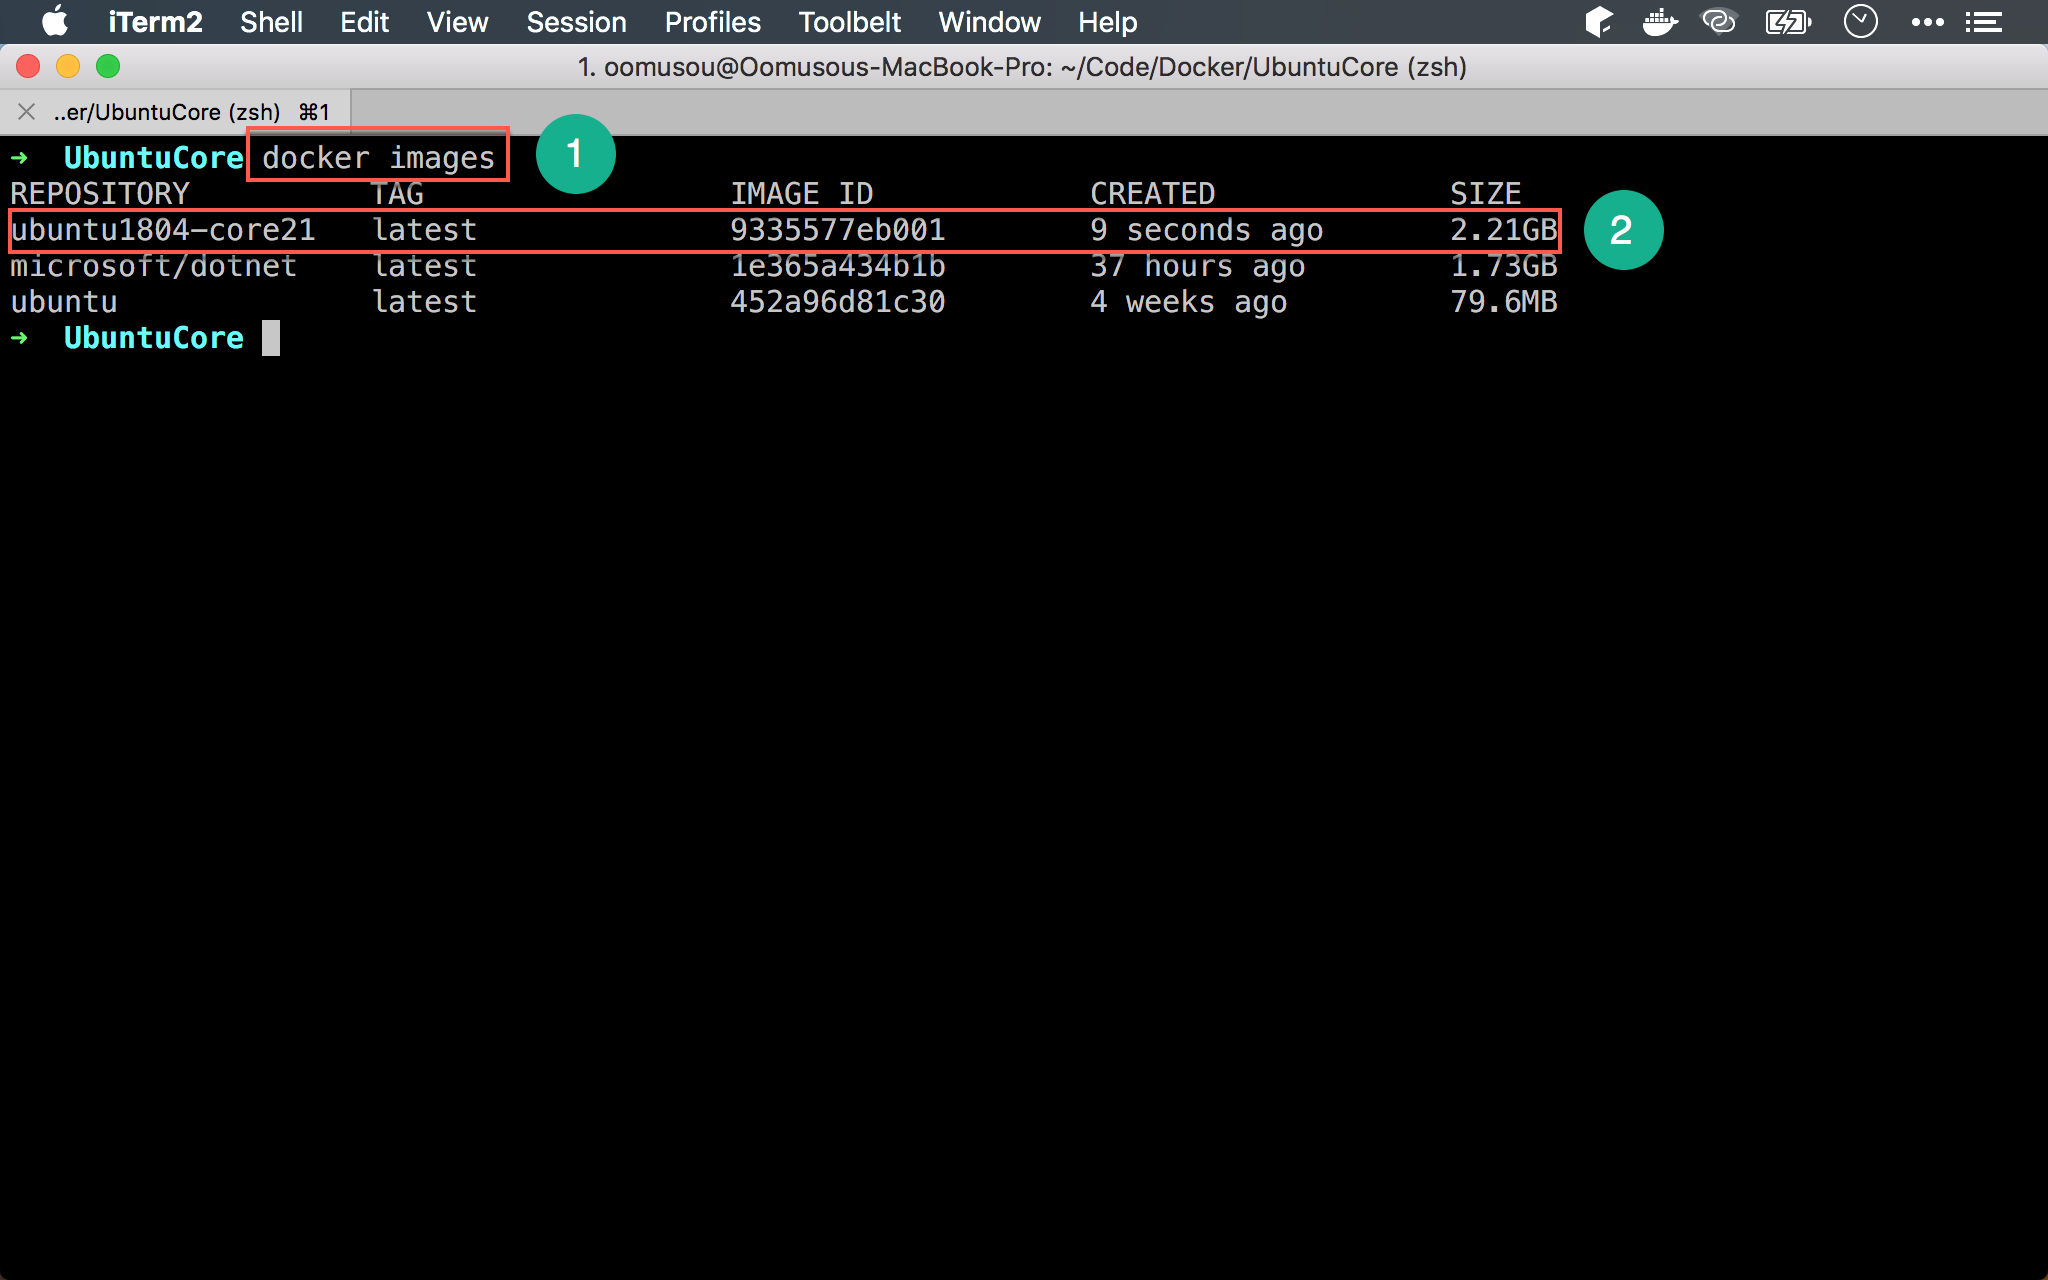
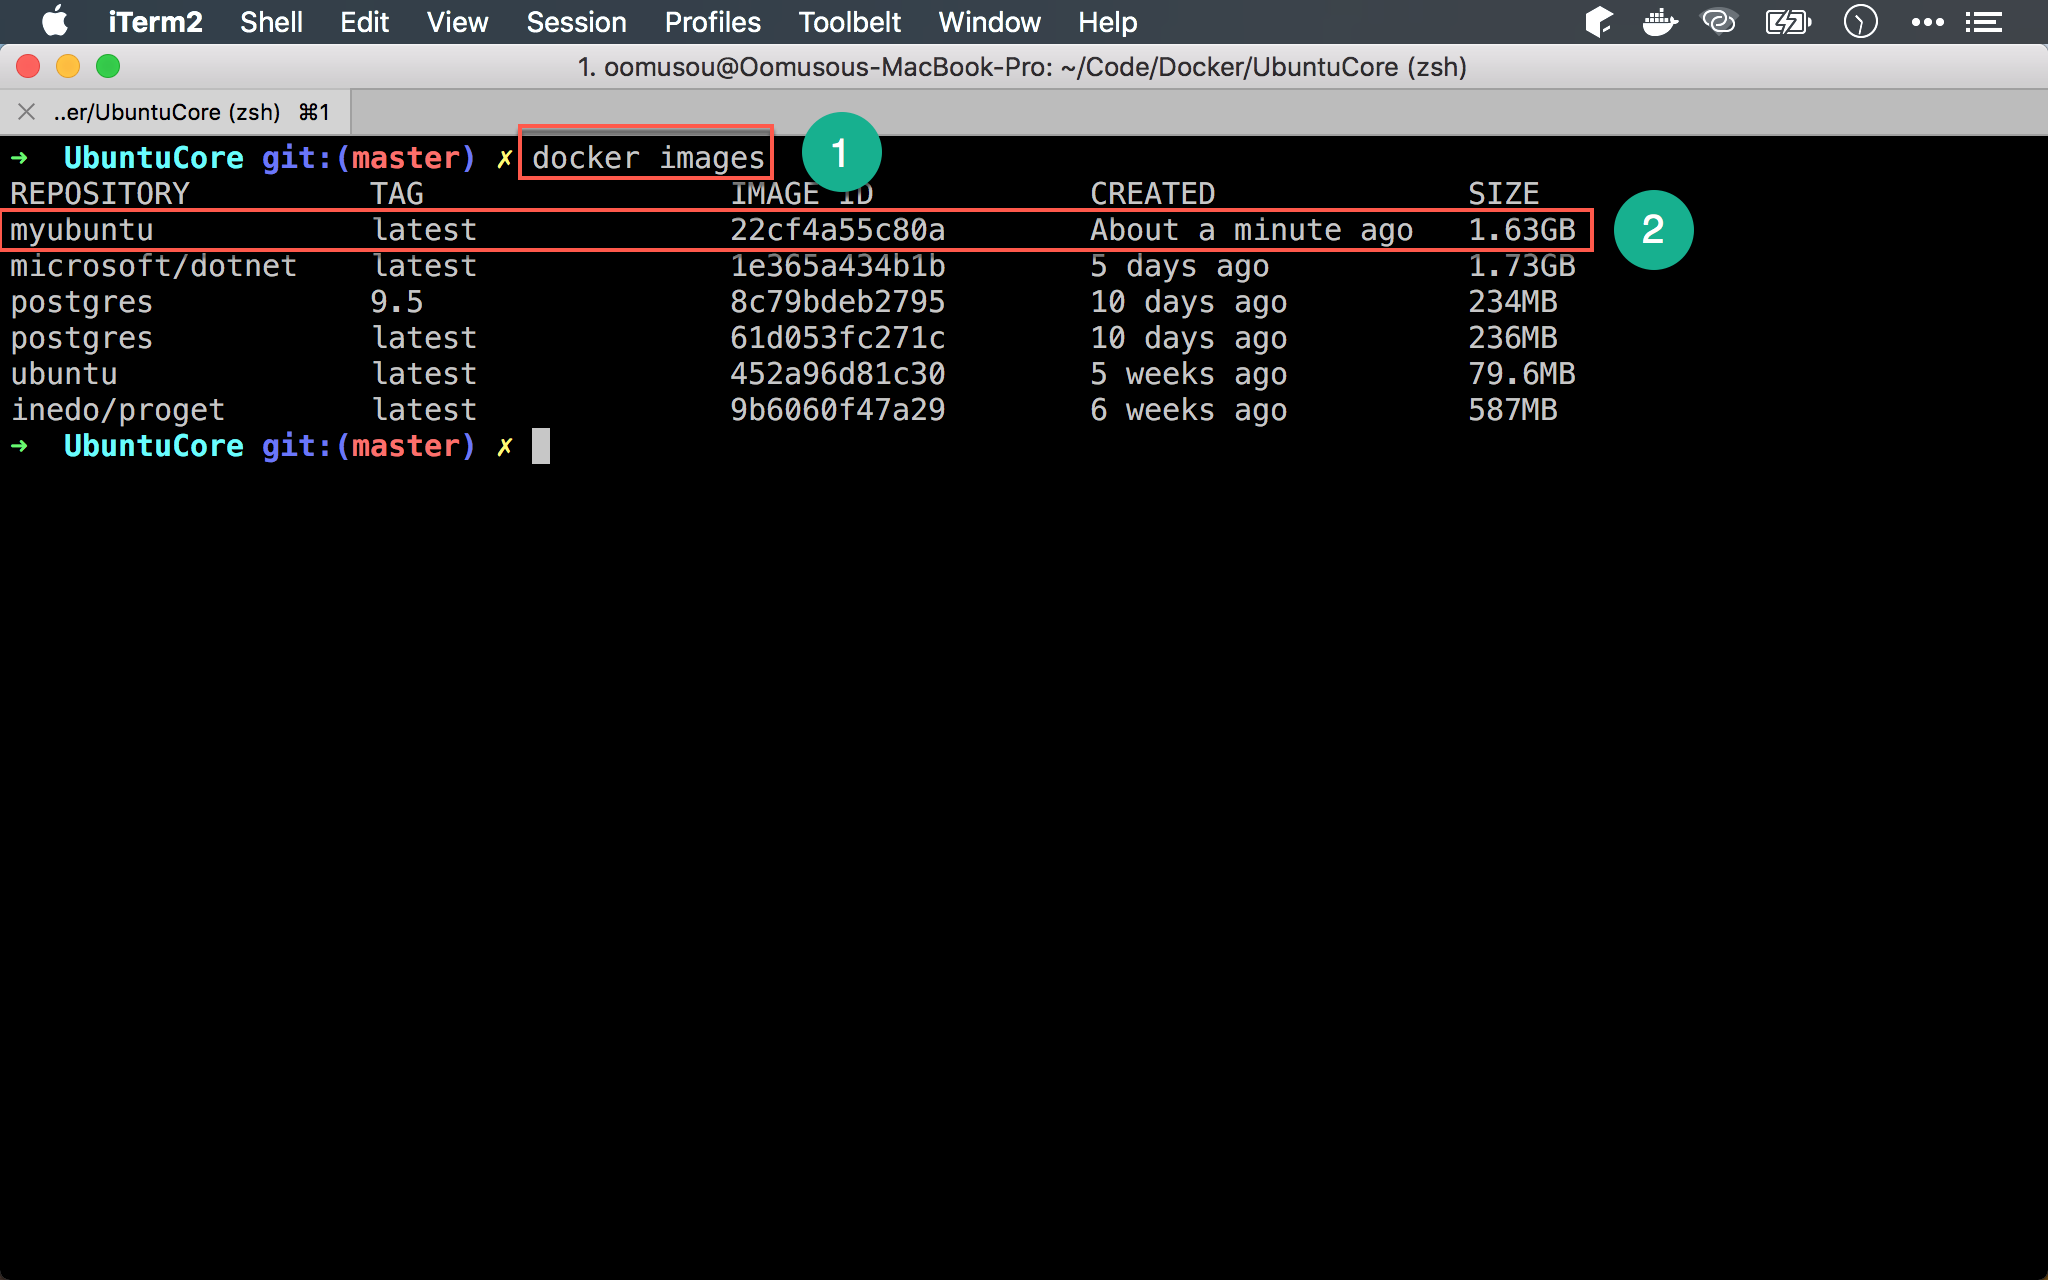
Site updated: 2018-06-05 10:58:01

Changed region(s): [[0.0, 0.0938, 0.4688, 0.375], [0.5312, 0.125, 0.8438, 0.3438]]

diff --git a/docker/ubuntu1804-core21/index.html b/docker/ubuntu1804-core21/index.html
@@ -17,7 +17,7 @@
 <meta property="og:site_name" content="點燈坊">
 <meta property="og:description" content="練習自己寫 Dockerfile 很好的機會">
 <meta property="og:image" content="http://oomusou.io/images/feature/logo.png">
-<meta property="og:updated_time" content="2018-06-01T05:08:25.504Z">
+<meta property="og:updated_time" content="2018-06-05T02:56:34.984Z">
 <meta name="twitter:card" content="summary">
 <meta name="twitter:title" content="如何建立 Ubuntu 18.04 + .NET Core 2.1 的 Docker Image ?">
 <meta name="twitter:description" content="練習自己寫 Dockerfile 很好的機會">
@@ -102,7 +102,7 @@
 	<!-- toc -->
 	<div id="postTOC">
 		<span class="tocHeading">Contents</span>
-		<ol class="toc-article"><li class="toc-article-item toc-article-level-2"><a class="toc-article-link" href="#Version"><span class="toc-article-text">Version</span></a></li><li class="toc-article-item toc-article-level-2"><a class="toc-article-link" href="#建立_Dockerfile"><span class="toc-article-text">建立 Dockerfile</span></a></li><li class="toc-article-item toc-article-level-2"><a class="toc-article-link" href="#建立自己的_Image"><span class="toc-article-text">建立自己的 Image</span></a></li><li class="toc-article-item toc-article-level-2"><a class="toc-article-link" href="#顯示_Ubuntu_版本"><span class="toc-article-text">顯示 Ubuntu 版本</span></a></li><li class="toc-article-item toc-article-level-2"><a class="toc-article-link" href="#顯示_-NET_Core_版本"><span class="toc-article-text">顯示 .NET Core 版本</span></a></li><li class="toc-article-item toc-article-level-2"><a class="toc-article-link" href="#Conclusion"><span class="toc-article-text">Conclusion</span></a></li><li class="toc-article-item toc-article-level-2"><a class="toc-article-link" href="#Sample_Code"><span class="toc-article-text">Sample Code</span></a></li><li class="toc-article-item toc-article-level-2"><a class="toc-article-link" href="#Reference"><span class="toc-article-text">Reference</span></a></li></ol>
+		<ol class="toc-article"><li class="toc-article-item toc-article-level-2"><a class="toc-article-link" href="#Version"><span class="toc-article-text">Version</span></a></li><li class="toc-article-item toc-article-level-2"><a class="toc-article-link" href="#建立_Dockerfile"><span class="toc-article-text">建立 Dockerfile</span></a></li><li class="toc-article-item toc-article-level-2"><a class="toc-article-link" href="#建立自己的_Image"><span class="toc-article-text">建立自己的 Image</span></a></li><li class="toc-article-item toc-article-level-2"><a class="toc-article-link" href="#建立且執行_Container"><span class="toc-article-text">建立且執行 Container</span></a></li><li class="toc-article-item toc-article-level-2"><a class="toc-article-link" href="#顯示_Ubuntu_版本"><span class="toc-article-text">顯示 Ubuntu 版本</span></a></li><li class="toc-article-item toc-article-level-2"><a class="toc-article-link" href="#顯示_-NET_Core_版本"><span class="toc-article-text">顯示 .NET Core 版本</span></a></li><li class="toc-article-item toc-article-level-2"><a class="toc-article-link" href="#Conclusion"><span class="toc-article-text">Conclusion</span></a></li><li class="toc-article-item toc-article-level-2"><a class="toc-article-link" href="#Sample_Code"><span class="toc-article-text">Sample Code</span></a></li><li class="toc-article-item toc-article-level-2"><a class="toc-article-link" href="#Reference"><span class="toc-article-text">Reference</span></a></li></ol>
     </div>
 
 	<!-- content -->
@@ -113,7 +113,7 @@
 <p>macOS High Sierra 10.13.4<br>Docker for Mac 18.03-ce-mac65 (24312)<br>Ubuntu 18.04<br>.NET Core 2.1</p>
 <h2 id="建立_Dockerfile">建立 Dockerfile</h2><hr>
 <p><strong>Dockerfile</strong></p>
-<figure class="highlight dockerfile"><table><tr><td class="gutter"><pre><span class="line">1</span><br><span class="line">2</span><br><span class="line">3</span><br><span class="line">4</span><br><span class="line">5</span><br><span class="line">6</span><br><span class="line">7</span><br><span class="line">8</span><br><span class="line">9</span><br><span class="line">10</span><br><span class="line">11</span><br><span class="line">12</span><br><span class="line">13</span><br><span class="line">14</span><br><span class="line">15</span><br><span class="line">16</span><br><span class="line">17</span><br></pre></td><td class="code"><pre><span class="line"><span class="built_in">FROM</span> ubuntu</span><br><span class="line"></span><br><span class="line"><span class="comment"># Install Linux library dependency</span></span><br><span class="line"><span class="built_in">RUN</span> <span class="bash">apt-get update</span><br><span class="line"></span><span class="built_in">RUN</span> <span class="bash">apt-get install -y wget apt-transport-https gpg</span><br><span class="line"></span></span><br><span class="line"><span class="comment"># Install microsoft.gpg</span></span><br><span class="line"><span class="built_in">RUN</span> <span class="bash">wget -qO- https://packages.microsoft.com/keys/microsoft.asc | gpg --dearmor &gt; microsoft.asc.gpg</span><br><span class="line"></span><span class="built_in">RUN</span> <span class="bash">mv microsoft.asc.gpg /etc/apt/trusted.gpg.d/</span><br><span class="line"></span><span class="built_in">RUN</span> <span class="bash">wget -q https://packages.microsoft.com/config/ubuntu/<span class="number">18.04</span>/prod.list</span><br><span class="line"></span><span class="built_in">RUN</span> <span class="bash">mv prod.list /etc/apt/sources.list.d/microsoft-prod.list</span><br><span class="line"></span><span class="built_in">RUN</span> <span class="bash">chown root:root /etc/apt/trusted.gpg.d/microsoft.asc.gpg</span><br><span class="line"></span><span class="built_in">RUN</span> <span class="bash">chown root:root /etc/apt/sources.list.d/microsoft-prod.list</span><br><span class="line"></span></span><br><span class="line"><span class="comment"># Install .NET Core SDK</span></span><br><span class="line"><span class="built_in">RUN</span> <span class="bash">apt-get update</span><br><span class="line"></span><span class="built_in">RUN</span> <span class="bash">apt-get install -y dotnet-sdk-<span class="number">2.1</span>.<span class="number">3</span></span></span><br></pre></td></tr></table></figure>
+<figure class="highlight dockerfile"><table><tr><td class="gutter"><pre><span class="line">1</span><br><span class="line">2</span><br><span class="line">3</span><br><span class="line">4</span><br><span class="line">5</span><br><span class="line">6</span><br><span class="line">7</span><br><span class="line">8</span><br><span class="line">9</span><br><span class="line">10</span><br><span class="line">11</span><br><span class="line">12</span><br><span class="line">13</span><br><span class="line">14</span><br><span class="line">15</span><br><span class="line">16</span><br><span class="line">17</span><br><span class="line">18</span><br><span class="line">19</span><br><span class="line">20</span><br></pre></td><td class="code"><pre><span class="line"><span class="built_in">FROM</span> ubuntu</span><br><span class="line"></span><br><span class="line"><span class="comment"># Install Linux library dependency</span></span><br><span class="line"><span class="built_in">RUN</span> <span class="bash">apt-get update</span><br><span class="line"></span><span class="built_in">RUN</span> <span class="bash">apt-get install -y wget apt-transport-https gpg</span><br><span class="line"></span></span><br><span class="line"><span class="comment"># Install microsoft.gpg</span></span><br><span class="line"><span class="built_in">RUN</span> <span class="bash">wget -qO- https://packages.microsoft.com/keys/microsoft.asc | gpg --dearmor &gt; microsoft.asc.gpg</span><br><span class="line"></span><span class="built_in">RUN</span> <span class="bash">mv microsoft.asc.gpg /etc/apt/trusted.gpg.d/</span><br><span class="line"></span><span class="built_in">RUN</span> <span class="bash">wget -q https://packages.microsoft.com/config/ubuntu/<span class="number">18.04</span>/prod.list</span><br><span class="line"></span><span class="built_in">RUN</span> <span class="bash">mv prod.list /etc/apt/sources.list.d/microsoft-prod.list</span><br><span class="line"></span><span class="built_in">RUN</span> <span class="bash">chown root:root /etc/apt/trusted.gpg.d/microsoft.asc.gpg</span><br><span class="line"></span><span class="built_in">RUN</span> <span class="bash">chown root:root /etc/apt/sources.list.d/microsoft-prod.list</span><br><span class="line"></span></span><br><span class="line"><span class="comment"># Install .NET Core SDK</span></span><br><span class="line"><span class="built_in">RUN</span> <span class="bash">apt-get update</span><br><span class="line"></span><span class="built_in">RUN</span> <span class="bash">apt-get install -y dotnet-sdk-<span class="number">2.1</span></span><br><span class="line"></span></span><br><span class="line"><span class="comment"># Display Greeting</span></span><br><span class="line"><span class="built_in">CMD</span> <span class="bash">[ <span class="string">"echo"</span>, <span class="string">"Ubuntu 18.04 LTS with .NET Core 2.1"</span>]</span></span><br></pre></td></tr></table></figure>
 <p>根據 .NET Core 官方文件 <a href="https://www.microsoft.com/net/download/linux-package-manager/rhel/sdk-current" target="_blank" rel="external">Install .NET Core SDK on Linux Ubuntu 18.04</a>，若要在 Ubuntu 18.04 安裝 .NET Core 2.1，必須依照這些步驟。</p>
 <p>將這些步驟改寫在 Dockerfile 內。</p>
 <p>第 1 行</p>
@@ -133,9 +133,12 @@
 <p> 15 行</p>
 <figure class="highlight dockerfile"><table><tr><td class="gutter"><pre><span class="line">1</span><br><span class="line">2</span><br><span class="line">3</span><br></pre></td><td class="code"><pre><span class="line"><span class="comment"># Install .NET Core SDK</span></span><br><span class="line"><span class="built_in">RUN</span> <span class="bash">apt-get update</span><br><span class="line"></span><span class="built_in">RUN</span> <span class="bash">apt-get install -y dotnet-sdk-<span class="number">2.1</span>.<span class="number">3</span></span></span><br></pre></td></tr></table></figure>
 <p>所有的 dependency 與  <code>microsoft.gpg</code> 都裝好後，就可以正式安裝 .NET Core SDK 了。</p>
+<p>19 行</p>
+<figure class="highlight dockerfile"><table><tr><td class="gutter"><pre><span class="line">1</span><br><span class="line">2</span><br></pre></td><td class="code"><pre><span class="line"><span class="comment"># Display Greeting</span></span><br><span class="line"><span class="built_in">CMD</span> <span class="bash">[ <span class="string">"echo"</span>, <span class="string">"Ubuntu 18.04 LTS with .NET Core 2.1"</span>]</span></span><br></pre></td></tr></table></figure>
+<p>成為 container 後，最後執行 <code>echo Ubuntu 18.04 LTS with .NET Core 2.1</code>。</p>
 <p><img src="/images/docker/ubuntu1804-core21/core000.png" alt="core000"></p>
 <h2 id="建立自己的_Image">建立自己的 Image</h2><hr>
-<figure class="highlight armasm"><table><tr><td class="gutter"><pre><span class="line">1</span><br></pre></td><td class="code"><pre><span class="line">~/UbuntuCore $ docker <span class="keyword">build </span>-t ubuntu1804-core21 .</span><br></pre></td></tr></table></figure>
+<figure class="highlight armasm"><table><tr><td class="gutter"><pre><span class="line">1</span><br></pre></td><td class="code"><pre><span class="line">~/UbuntuCore $ docker <span class="keyword">build </span>-t myubuntu .</span><br></pre></td></tr></table></figure>
 <p>進入 <code>Dockerfile</code> 所在的目錄，使用 <code>docker build</code> 建立自己的 image。</p>
 <ul>
 <li><strong>-t</strong> : Docker image 的名稱</li>
@@ -143,17 +146,22 @@
 </ul>
 <p><img src="/images/docker/ubuntu1804-core21/core001.png" alt="core001"></p>
 <figure class="highlight elixir"><table><tr><td class="gutter"><pre><span class="line">1</span><br></pre></td><td class="code"><pre><span class="line"><span class="variable">$ </span>docker images</span><br></pre></td></tr></table></figure>
-<p><code>docker build</code> 的確幫我們建立了新的 <code>ubuntu1804-core21</code> Docker image。</p>
+<p><code>docker build</code> 的確幫我們建立了新的 <code>myubuntu</code> image。</p>
 <p><img src="/images/docker/ubuntu1804-core21/core002.png" alt="core002"></p>
-<h2 id="顯示_Ubuntu_版本">顯示 Ubuntu 版本</h2><hr>
-<figure class="highlight stata"><table><tr><td class="gutter"><pre><span class="line">1</span><br></pre></td><td class="code"><pre><span class="line">$ docker <span class="keyword">run</span> --<span class="keyword">rm</span> ubuntu1804-core21 <span class="keyword">cat</span> /etc/lsb-release</span><br></pre></td></tr></table></figure>
-<p>使用 <code>docker run</code> 執行剛剛建立的 image，並執行 <code>cat /etc/lsb-release</code> 顯示 Ubuntu 版本。</p>
+<h2 id="建立且執行_Container">建立且執行 Container</h2><hr>
+<figure class="highlight applescript"><table><tr><td class="gutter"><pre><span class="line">1</span><br></pre></td><td class="code"><pre><span class="line">$ docker <span class="command">run</span> <span class="comment">--rm myubuntu</span></span><br></pre></td></tr></table></figure>
+<p>使用 <code>docker run</code> 執行 <code>myubuntu</code> image。</p>
 <ul>
 <li><strong>–rm</strong>：執行完 container 後立即刪除，避免日後還要手動刪除 container</li>
 </ul>
+<p><img src="/images/docker/ubuntu1804-core21/core005.png" alt="core005"></p>
+<p>顯示剛剛在 <code>Dockerfile</code> 的 <code>CMD [ &quot;cat&quot;, &quot;Ubuntu 18.04 LTS with .NET Core 2.1&quot;]</code>。</p>
+<h2 id="顯示_Ubuntu_版本">顯示 Ubuntu 版本</h2><hr>
+<figure class="highlight stata"><table><tr><td class="gutter"><pre><span class="line">1</span><br></pre></td><td class="code"><pre><span class="line">$ docker <span class="keyword">run</span> --<span class="keyword">rm</span> myubuntu <span class="keyword">cat</span> /etc/lsb-release</span><br></pre></td></tr></table></figure>
+<p>使用 <code>docker run</code> 執行剛剛建立的 image，並執行 <code>cat /etc/lsb-release</code> 顯示 Ubuntu 版本。</p>
 <p><img src="/images/docker/ubuntu1804-core21/core003.png" alt="core003"></p>
 <h2 id="顯示_-NET_Core_版本">顯示 .NET Core 版本</h2><hr>
-<figure class="highlight applescript"><table><tr><td class="gutter"><pre><span class="line">1</span><br></pre></td><td class="code"><pre><span class="line">$ docker <span class="command">run</span> <span class="comment">--rm ubuntu1804-core21 dotnet --info</span></span><br></pre></td></tr></table></figure>
+<figure class="highlight applescript"><table><tr><td class="gutter"><pre><span class="line">1</span><br></pre></td><td class="code"><pre><span class="line">$ docker <span class="command">run</span> <span class="comment">--rm myubuntu dotnet --info</span></span><br></pre></td></tr></table></figure>
 <p>使用 <code>docker run</code> 執行剛剛建立的 image，並執行 <code>dotnet --info</code> 顯示 .NET Core 版本。</p>
 <p><img src="/images/docker/ubuntu1804-core21/core004.png" alt="core004"></p>
 <h2 id="Conclusion">Conclusion</h2><hr>
@@ -164,7 +172,7 @@
 <h2 id="Sample_Code">Sample Code</h2><hr>
 <p>完整的範例可以在我的 <a href="https://github.com/oomusou/ubuntu1804-core21" target="_blank" rel="external">GitHub</a> 上找到</p>
 <h2 id="Reference">Reference</h2><hr>
-<p><a href="https://www.microsoft.com/net/" target="_blank" rel="external">.NET Core</a>, <a href="https://www.microsoft.com/net/download/linux-package-manager/rhel/sdk-current" target="_blank" rel="external">Install .NET Core SDK on Linux Ubuntu 18.04</a></p>
+<p><a href="https://www.microsoft.com/net/" target="_blank" rel="external">.NET Core</a>,  <a href="https://www.microsoft.com/net/download/linux-package-manager/rhel/sdk-current" target="_blank" rel="external">Install .NET Core SDK on Linux Ubuntu 18.04</a></p>
 	  
 	</div>
 

diff --git a/hexo/md-overview/index.html b/hexo/md-overview/index.html
@@ -133,7 +133,7 @@
 <span class="xml"><span class="tag">&lt;<span class="title">http:</span>//<span class="attribute">oomusou.io</span>&gt;</span></span>
 [<span class="link_label">My Blog</span>](<span class="link_url">http://oomusou.io</span>)
 [<span class="link_label">My Email</span>](<span class="link_url">oomusou@gmail.com</span>)
-</code></pre><p><a href="&#109;&#97;&#105;&#x6c;&#116;&#x6f;&#58;&#x6f;&#111;&#x6d;&#x75;&#115;&#111;&#117;&#x40;&#103;&#x6d;&#97;&#105;&#x6c;&#x2e;&#99;&#x6f;&#109;">&#x6f;&#111;&#x6d;&#x75;&#115;&#111;&#117;&#x40;&#103;&#x6d;&#97;&#105;&#x6c;&#x2e;&#99;&#x6f;&#109;</a><br><a href="http://oomusou.io">http://oomusou.io</a><br><a href="http://oomusou.io">My Blog</a><br><a href="oomusou@gmail.com">My Email</a></p>
+</code></pre><p><a href="&#109;&#97;&#105;&#108;&#116;&#111;&#58;&#111;&#x6f;&#109;&#x75;&#x73;&#x6f;&#117;&#64;&#103;&#109;&#97;&#x69;&#x6c;&#x2e;&#99;&#x6f;&#109;">&#111;&#x6f;&#109;&#x75;&#x73;&#x6f;&#117;&#64;&#103;&#109;&#97;&#x69;&#x6c;&#x2e;&#99;&#x6f;&#109;</a><br><a href="http://oomusou.io">http://oomusou.io</a><br><a href="http://oomusou.io">My Blog</a><br><a href="oomusou@gmail.com">My Email</a></p>
 <h2 id="圖片">圖片</h2><hr>
 <pre><code>![<span class="link_label">step1</span>](<span class="link_url">/images/md000.png</span>)
 </code></pre><p><img src="/images/hexo/md-overview/md000.png" alt="step1"></p>
